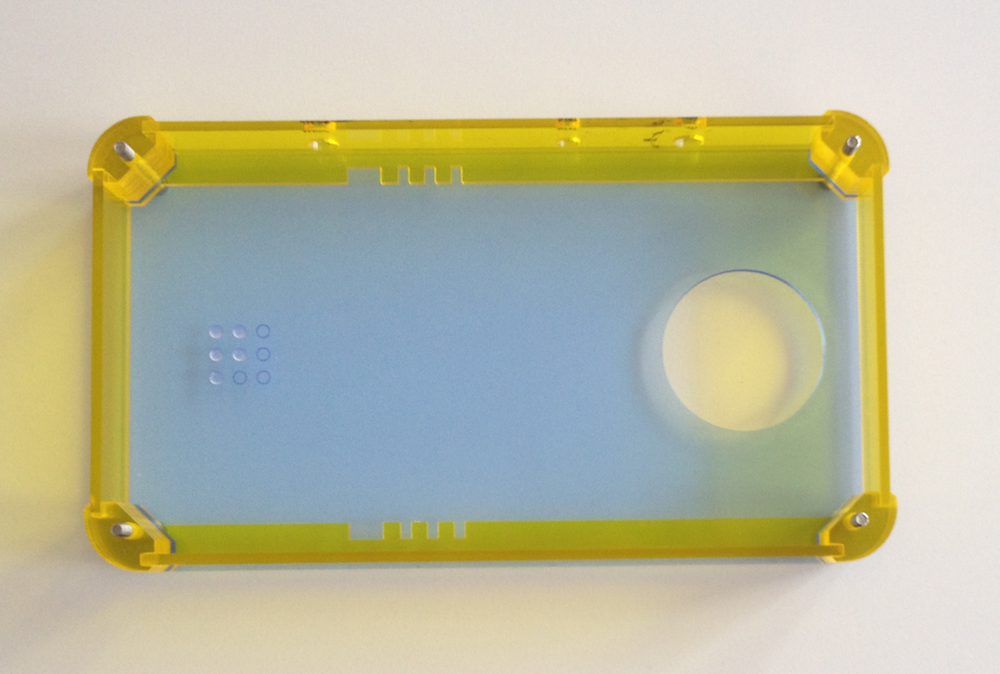
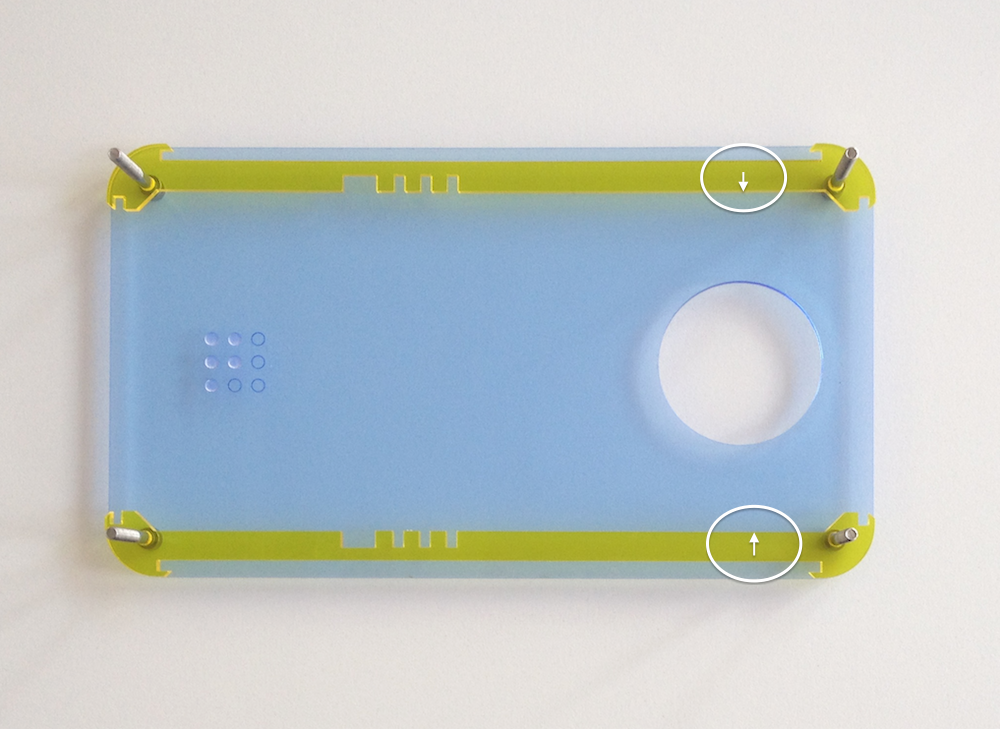
Renumber images to make it all more consistent

diff --git a/docs/case_construction.md b/docs/case_construction.md
@@ -22,12 +22,12 @@ The version below is a simpler version with two buttons (on / off and a configur
 For getting the software working, see [getting started](getting_started.markdown)
 
 
-Step 0: Kit of parts
+Step 1: Kit of parts
 ====================
 
 Here's what you need. 
 
-<img src="assets/kit/step0.png" alt="Kit of parts" width="600px"/>
+<img src="assets/kit/step1.png" alt="Kit of parts" width="600px"/>
 
 The case ([pdf](assets/radiodan_3mm_laser_template.pdf)) is designed for a 5cm speaker powered by a USB-powered amplifier, such as [this one](http://www.ebay.com/itm/PAM8403-USB-Power-Cable-Stereo-Audio-Digital-Amplifier-Board-2-Channel-3W-2-UK-/121375724376?).
 
@@ -42,22 +42,13 @@ The complete list is this:
  * 2 5mm diameter nuts to fit 2 short 2mm diameter screws to hold in the Pi
 
 
-Step 1: Add the four bolts and the two internal mounts
+Step 2: Add the four bolts and the two internal mounts
 ======================================================
 
 Play particular attention to the placement of the arrows - they should point to the circular hole.
 
-<img src="assets/kit/step1.png" alt="four bolts and the two internal mounts" width="600px"/>
+<img src="assets/kit/step2.png" alt="four bolts and the two internal mounts" width="600px"/>
 
-
-Step 2: Add the four edge pieces and the corner pieces
-======================================================
-
-Make sure the top piece is the right way up and the correct way round (text faces outwards and the power button is on the right as you face it).
-
-There are 8 coner pieces on each corner.
-
-<img src="assets/kit/step2.png" alt="four edge pieces and coners" width="600px"/>
 
 
 Step 3: Glue the nuts to the internal mount
@@ -70,17 +61,23 @@ depending on your model. The B+ holes are identified with a plus sign. It's easi
 <img src="assets/kit/step3.png" alt="the nuts glued to the internal mount" width="600px"/>
 
 
-Step 4: Add the internal mount
-==============================
+
+Step 4: Add three of the edge pieces, the corner pieces, and the internal mount
+===============================================================================
 
 When the glue is set, fit the mount into the box, slotting it into the side pieces.
 
-<img src="assets/kit/step4.png" alt="add the internal mount" width="600px"/>
+There are 8 corner pieces on each corner.
+
+The three edge pieces just slot in.
+
+<img src="assets/kit/step4.png" alt="three edge pieces and corners and mount" width="600px"/>
 
 
 Step 5: Wire up the buttons and leds and attach them to the top
 ===============================================================
 
+Make sure the top piece is the right way up and the correct way round (text faces outwards and the power button is on the right as you face it).
 
 For the wiring you need to consult this [fritzing diagram](assets/Radiodan_app.fzz)@@fixme.
 
